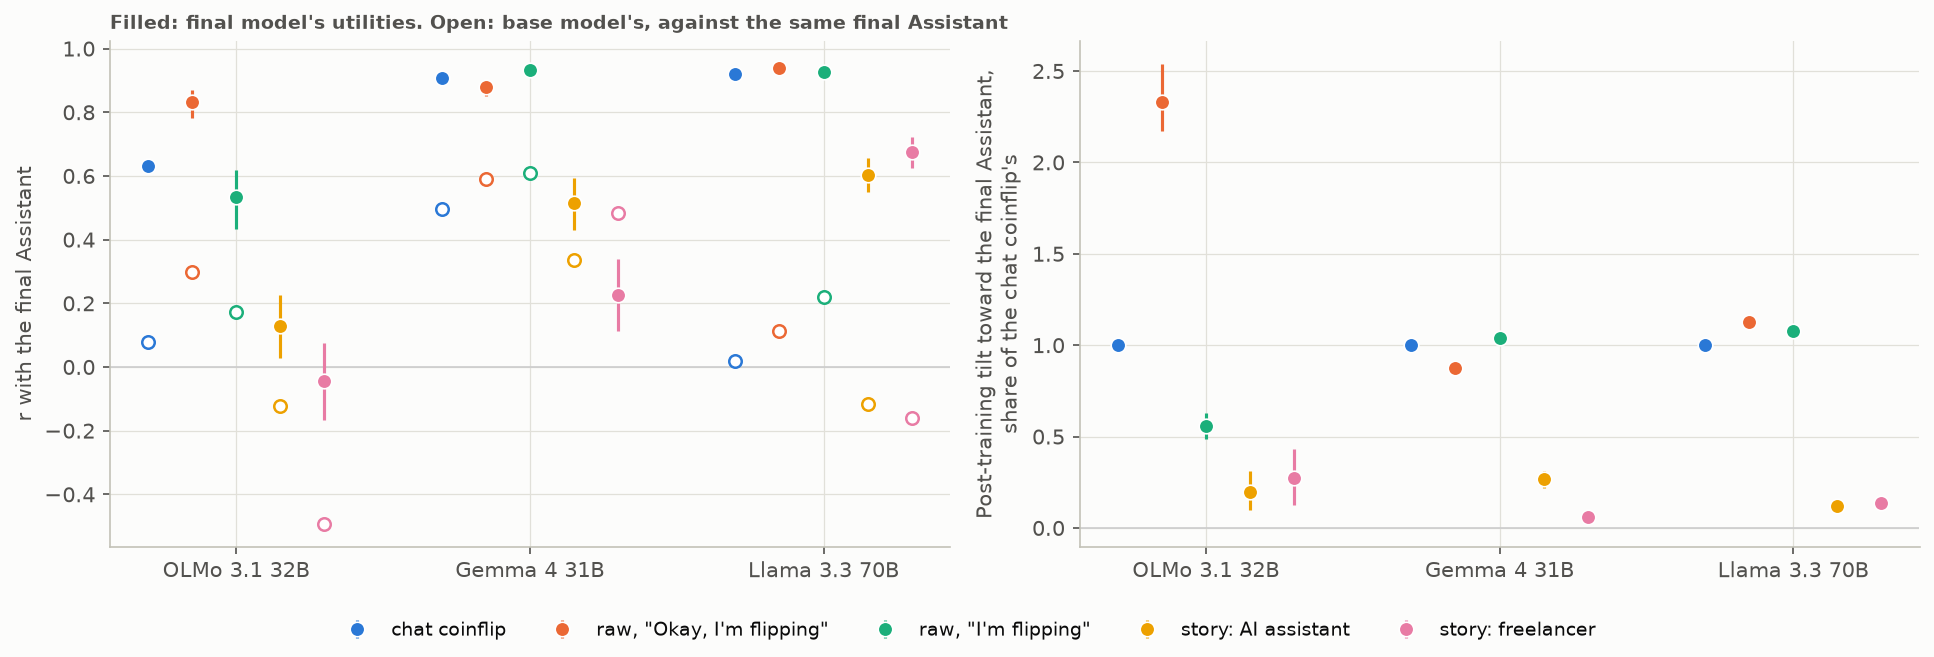
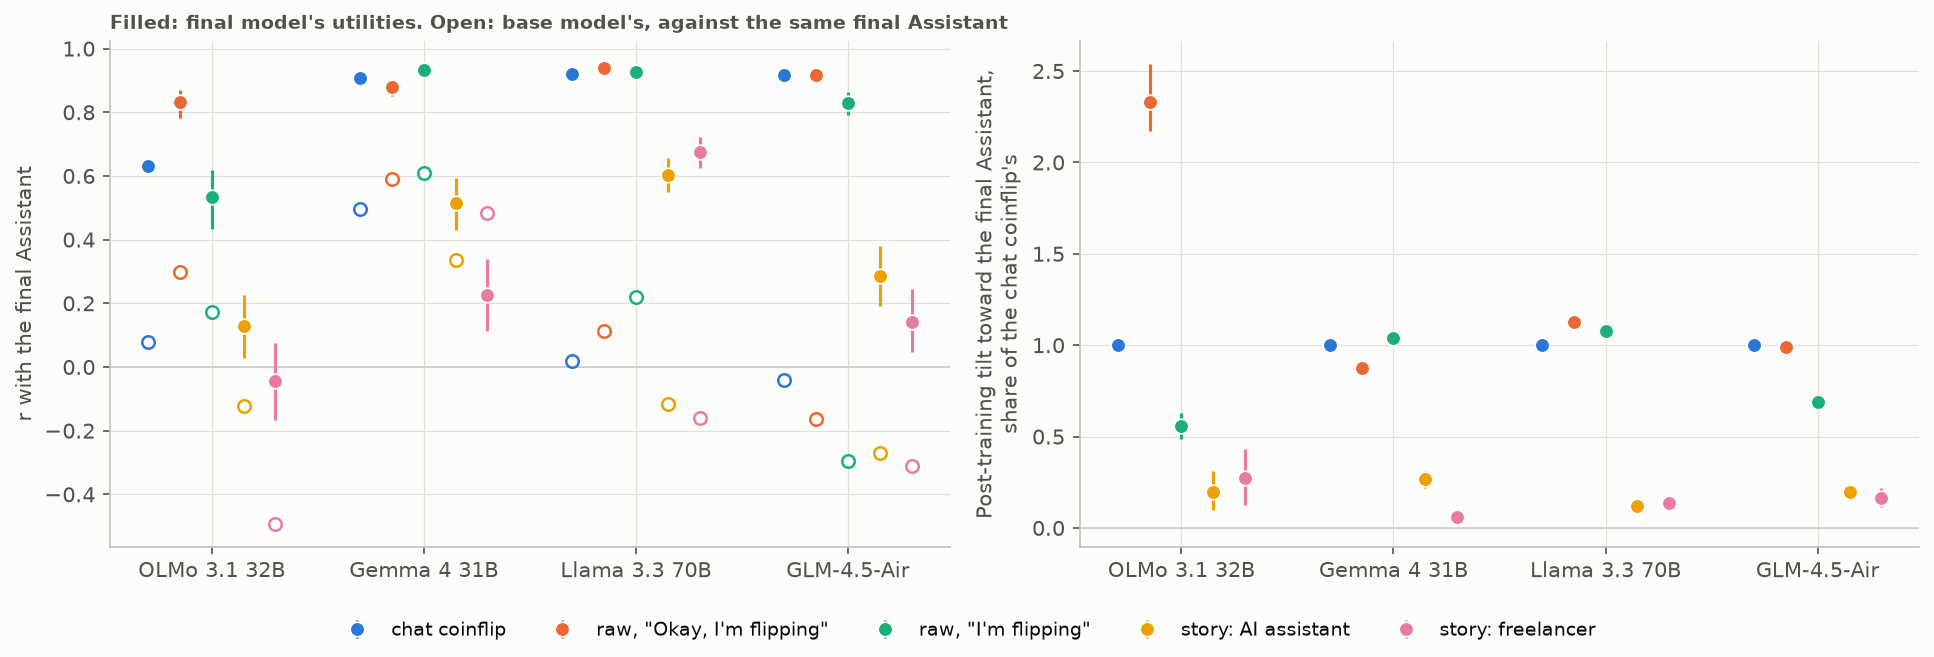
Raw text, GLM added (four families, DeepSeek dropped): GLM's first person matches its chat coinflip (r 0.92, retention 0.99), its stories keep 17-20% with no ranking within a task source

diff --git a/raw_text.py b/raw_text.py
@@ -54,7 +54,8 @@ FAMILIES = {
     "gemma4-31b": ("google/gemma-4-31B-it", "jrl62npf"),
     "llama-70b": ("unsloth/Llama-3.3-70B-Instruct", "tvlqj8a0"),
     "glm-4.5-air": ("zai-org/GLM-4.5-Air", "i5vejs3b"),
-    "deepseek-v4-flash": ("deepseek-ai/DeepSeek-V4-Flash", "lszrxqyq"),
+    # DeepSeek V4 Flash ("deepseek-ai/DeepSeek-V4-Flash", sweep run "lszrxqyq") was planned but dropped before running:
+    # no 4x H200 on Secure Cloud. Its configs stay in configs/raw_text/.
 }
 RAW = ("raw_okay", "raw_no_okay", "raw_story_ai", "raw_story_person")
 LABEL = {"coinflip": "chat coinflip", "raw_okay": 'raw, "Okay, I\'m flipping"', "raw_no_okay": 'raw, "I\'m flipping"',

diff --git a/README.md b/README.md
@@ -1702,25 +1702,28 @@ The sweep's chat coinflip on the same models, computed before writing this:
   r = 1.0000 in the openers run).
 - One phrasing per condition, bf16. CIs cover task sampling only.
 
-### Results so far (2026-11-03): OLMo, Gemma, Llama
+### Results (2026-11-03, GLM 2026-11-04): OLMo, Gemma, Llama, GLM
 
-GLM and DeepSeek haven't run: no 2x or 4x H200 (or any SXM multi-GPU node) has been in stock on Secure Cloud since launch. They
-will be added when they run; until then predictions about "N of 5 families" are scored on three.
+**DeepSeek was dropped before running** (Hal, 2026-11-03): no 4x H200 or other multi-GPU node was in stock on Secure Cloud during
+the run, and four families were judged enough. Predictions about "N of 5 families" are scored on four, below.
 
 Runs (base, final), group `raw_text`: OLMo `v9c0tvdx`, `d06n8yn0` (one A100, both stages in turn, $5.25); Gemma `vkvgtqof`, `arvkll25`
-(one H200, in turn, $7.15); Llama `xk5qk6ix`, `igq2vvpy` (one H200 each, $13.97). $26.37 in all. Changes from the plan, none touching
-the data: stock was short, so OLMo and Gemma ran both stages on one pod. Llama's final pod hit a repeatable Hugging Face xet download
-error and finished its download over plain HTTP (`HF_HUB_DISABLE_XET=1`). Two Llama final attempts and one killed job left W&B runs
-with no results (`g0a4a0hj`, `zhl5mukp`, `nemtbw0c`), which `raw_text.py` skips. Full printout: `outputs/raw_text/analysis_printout.txt`
-(not in git); tables `outputs/raw_text/raw_text.csv`, `contrasts.csv`.
+(one H200, in turn, $7.15); Llama `xk5qk6ix`, `igq2vvpy` (one H200 each, $13.97); GLM `f18njpo2`, `67tfxkbu` (one 2x H200 in EUR-IS-5,
+in turn, $15.33). $41.70 in all. Changes from the plan, none touching the data: stock was short, so OLMo, Gemma and GLM ran both stages
+on one pod. GLM ran in EUR-IS-5, as no 2x H200 was free in the US/CA list (setup and downloads were fast there). Llama's final pod hit a
+repeatable Hugging Face xet download error and finished its download over plain HTTP (`HF_HUB_DISABLE_XET=1`). Two Llama final attempts
+and one killed job left W&B runs with no results (`g0a4a0hj`, `zhl5mukp`, `nemtbw0c`), which `raw_text.py` skips. Full printout:
+`outputs/raw_text/analysis_printout.txt` (not in git); tables `outputs/raw_text/raw_text.csv`, `contrasts.csv`.
 
-**Every cell is readable** (median outcome mass 0.79-1.00) and reliable (split-half 0.978-0.999).
+**Every cell is readable** (median outcome mass 0.47-1.00; GLM's first-person cells are the lowest) and reliable (split-half
+0.978-0.999).
 
 **Bottom line: in the first person, the raw text carries the chat Assistant's preferences as fully as the chat coinflip does; as a
 story, it mostly doesn't, but not in the same way across families.** The stories keep only 6-27% of the chat coinflip's
-post-training tilt toward the Assistant in every family. What's left differs. Llama's stories keep the Assistant's ranking at about an eighth of the scale (r 0.60-0.67,
-from about -0.15 at base). Gemma's AI-assistant story keeps about a quarter of it, without the harm avoidance, while its freelancer
-story keeps almost nothing. OLMo's stories track task length, not the Assistant.
+post-training tilt toward the Assistant in every family. What's left differs. Llama's stories keep the Assistant's ranking at about an
+eighth of the scale (r 0.60-0.67, from about -0.15 at base), within task sources too. Gemma's AI-assistant story keeps about a quarter
+of it, without the harm avoidance, while its freelancer story keeps almost nothing. GLM's stories keep a faint between-source
+ordering and nothing within a source. OLMo's stories track task length, not the Assistant.
 
 ![r and retention](figures/raw_text_r.png)
 
@@ -1743,42 +1746,53 @@ story keeps almost nothing. OLMo's stories track task length, not the Assistant.
 | | raw, no "Okay, " | tracks | 0.93 [0.91, 0.94] | 0.22 | 0.92 | 1.08 [1.05, 1.11] | 0.91 | 0.74 | 2.37 | 1.24 |
 | | story: AI assistant | absent | 0.60 [0.55, 0.66] | -0.12 | 0.64 | 0.12 [0.11, 0.13] | 0.68 | 0.46 | 0.13 | 0.20 |
 | | story: freelancer | absent | 0.67 [0.63, 0.72] | -0.16 | 0.68 | 0.13 [0.12, 0.15] | 0.71 | 0.48 | 0.17 | 0.20 |
+| GLM-4.5-Air | chat coinflip (sweep) | | 0.92 | -0.04 | 0.89 | 1 | 0.84 | 0.78 | 0.73 | 0.37 |
+| | raw, "Okay, " | tracks | 0.92 [0.90, 0.93] | -0.16 | 0.90 | 0.99 [0.96, 1.02] | 0.84 | 0.78 | 0.70 | 0.36 |
+| | raw, no "Okay, " | tracks | 0.83 [0.79, 0.86] | -0.29 | 0.81 | 0.69 [0.64, 0.73] | 0.70 | 0.60 | 0.46 | 0.25 |
+| | story: AI assistant | absent | 0.29 [0.19, 0.38] | -0.27 | 0.43 | 0.20 [0.15, 0.24] | 0.35 | -0.04 | 0.06 | 0.15 |
+| | story: freelancer | absent | 0.14 [0.05, 0.25] | -0.31 | 0.29 | 0.17 [0.11, 0.22] | 0.09 | -0.08 | 0.08 | 0.16 |
 
 \* By the letter of the call (retention 0.27, r shift 0.20, both CIs above 0), but the final model's utilities don't correlate with
-the Assistant at all: post-training removed a base anti-correlation (-0.49) rather than adding an Assistant-aligned one. See finding 4.
+the Assistant at all: post-training removed a base anti-correlation (-0.49) rather than adding an Assistant-aligned one. See finding 5.
 
 Paired contrasts (95% CI): each story minus `raw_no_okay`, in r(A_f, X_f): OLMo -0.41 / -0.58, Gemma -0.42 / -0.71, Llama -0.32 /
--0.25 (AI / freelancer), all CIs below 0, and likewise in gain. AI-assistant minus freelancer story: OLMo r +0.17 [+0.11, +0.25] (gain
--0.02 [-0.04, 0.00]), Gemma r +0.29 [+0.20, +0.38] (gain +0.62 [+0.51, +0.73]), Llama r -0.07 [-0.10, -0.04] (gain -0.015 [-0.023,
--0.006]). `raw_no_okay` minus `raw_okay` in gain: OLMo -0.42 [-0.50, -0.34], Gemma +0.49 [+0.40, +0.58], Llama -0.06 [-0.08, -0.03].
+-0.25, GLM -0.54 / -0.69 (AI / freelancer), all CIs below 0, and likewise in gain. AI-assistant minus freelancer story: OLMo r +0.17
+[+0.11, +0.25] (gain -0.02 [-0.04, 0.00]), Gemma r +0.29 [+0.20, +0.38] (gain +0.62 [+0.51, +0.73]), Llama r -0.07 [-0.10, -0.04]
+(gain -0.015 [-0.023, -0.006]), GLM r +0.15 [+0.08, +0.22] (gain +0.01 [-0.01, +0.03]). `raw_no_okay` minus `raw_okay` in gain: OLMo
+-0.42 [-0.50, -0.34], Gemma +0.49 [+0.40, +0.58], Llama -0.06 [-0.08, -0.03], GLM -0.10 [-0.12, -0.09].
 
-**Predictions, scored on three families:**
-1. **Confirmed.** `raw_okay` tracks in all three. r(A_f, X_f) is within 0.1 of the chat coinflip's or above it (OLMo +0.20, Gemma
-   -0.03, Llama +0.02), and OLMo's retention is 2.33 [2.17, 2.54], above 1.
-2. **Confirmed.** `raw_no_okay` tracks in all three, and OLMo's gain falls without "Okay, " (-0.42, CI below 0).
-3. **Open, 2 of 3 per story so far.** `raw_story_ai` is absent in OLMo and Llama but tracks in Gemma. `raw_story_person` is absent in
-   Gemma and Llama, and "tracks" in OLMo only by the footnoted artifact. Llama, the likeliest exception, is absent in both.
-4. **Confirmed so far (6 of 6 cells).** Every story's gain is below `raw_no_okay`'s.
-5. **Wrong (0 of 3).** The AI-assistant and freelancer stories differ in every family: by r in OLMo (+0.17) and Gemma (+0.29), and by
-   a small but non-zero gain in Llama.
+**Predictions, scored on four families:**
+1. **Confirmed.** `raw_okay` tracks in all four. r(A_f, X_f) is within 0.1 of the chat coinflip's or above it (OLMo +0.20, Gemma
+   -0.03, Llama +0.02, GLM -0.00), and OLMo's retention is 2.33 [2.17, 2.54], above 1.
+2. **Confirmed.** `raw_no_okay` tracks in all four, and OLMo's gain falls without "Okay, " (-0.42, CI below 0).
+3. **Not confirmed: 3 of 4 per story.** `raw_story_ai` is absent in OLMo, Llama and GLM but tracks in Gemma. `raw_story_person` is
+   absent in Gemma, Llama and GLM, and "tracks" in OLMo, though only by the footnoted artifact. The threshold was 4 of 5. With
+   DeepSeek dropped, it would have needed DeepSeek absent in both. Llama, the family I expected to be the exception, is absent in both.
+4. **Confirmed (8 of 8 cells).** Every story's gain is below `raw_no_okay`'s.
+5. **Wrong (0 of 4).** The AI-assistant and freelancer stories differ in every family: by r in OLMo (+0.17), Gemma (+0.29) and GLM
+   (+0.15), and by a small but non-zero gain in Llama.
 6. **Wrong.** Gemma's `raw_story_ai` gain is positive (+0.81 [+0.65, +0.95] nats per SD), not negative.
-7. **Confirmed so far** for readability; the GLM half can't be scored yet.
+7. **Confirmed.** Every cell is readable, and GLM's final model puts 0.60 of its mass on the outcomes in `raw_okay`, against 0.45 in chat.
 
-### Findings (three families)
+### Findings
 
-1. **First person, the raw text keeps the effect across the task range.** With no template, Llama's and Gemma's coinflip track their
-   chat Assistant at r 0.88-0.94 and 88-113% of the chat coinflip's tilt, not only on harm (non-harmful r 0.87-0.91, within origin
-   0.71-0.79). OLMo's, with "Okay, ", is *more* Assistant-aligned than its chat coinflip (r 0.83 vs 0.63, 2.3x the tilt), as its plain-text
-   effect doubled on `../coinflip`'s pairs. Without "Okay, " it keeps 56%. Gemma and Llama don't need the opener.
+1. **First person, the raw text keeps the effect across the task range.** With no template, Llama's, Gemma's and GLM's coinflip track
+   their chat Assistant at r 0.88-0.94 and 88-113% of the chat coinflip's tilt, not only on harm (non-harmful r 0.84-0.91, within
+   origin 0.71-0.79). GLM's is indistinguishable from its chat coinflip (r -0.00 [-0.01, +0.01] apart). OLMo's, with "Okay, ", is
+   *more* Assistant-aligned than its chat coinflip (r 0.83 vs 0.63, 2.3x the tilt), as its plain-text effect doubled on `../coinflip`'s
+   pairs. Without "Okay, " OLMo keeps 56% and GLM 69%; Gemma and Llama don't need the opener.
 2. **Stories cut the scale everywhere, but Llama keeps the ranking.** Llama's story utilities correlate 0.60 and 0.67 with the
    Assistant, from -0.12 and -0.16 at base (r shift 0.64-0.68, non-harmful 0.68-0.71, within origin 0.46-0.48), at a sixth of the
    first-person SD (0.20 vs 1.24). So the call is "absent" by scale, but the story still reads out the Assistant's preferences, faintly
    and whoever does the task. This matches `../coinflip`, where Llama's stories kept a small effect in 24 of 25 pairs (7%).
 3. **Gemma's AI-assistant story tracks taste, not harm.** It keeps 27% of the tilt and r 0.52 (non-harmful 0.60) where the freelancer
-   story keeps 6%. That makes Gemma the only family where it matters that the story is about an AI. But harmful tasks aren't pushed
+   story keeps 6%. That makes Gemma the clearest family where it matters that the story is about an AI. But harmful tasks aren't pushed
    down: the gap is 0.80 nats vs 5.86 in the first person, and stress-test tasks the Assistant strongly avoids sit at or above zero
    (`figures/raw_text_scatter.png`). That fits `../coinflip`, where Gemma's AI story favored the *harmful* outcome on extreme harm.
-4. **OLMo's stories track length, not the Assistant.** Final r with the Assistant is 0.13 and -0.04, and 0.02 and -0.16 with log task
+4. **GLM's stories keep only a faint ordering of task sources.** r with the Assistant is 0.29 and 0.14 (up from -0.27 and -0.31 at
+   base), but -0.04 and -0.08 within origin. The final story utilities are within ±0.16 nats of zero in every origin's mean. The
+   AI-assistant story is a little more Assistant-like than the freelancer one in r (+0.15), not in gain.
+5. **OLMo's stories track length, not the Assistant.** Final r with the Assistant is 0.13 and -0.04, and 0.02 and -0.16 with log task
    length held fixed (exploratory), while the final story utilities correlate 0.53 and 0.46 with length. The freelancer story's
    "tracks" call comes from the base model, whose utilities anti-correlate with the final Assistant (-0.49, -0.48 with length held
    fixed), and from post-training removing that. The call's rule didn't anticipate a strongly negative base; read this cell as absent.
@@ -1787,9 +1801,10 @@ Paired contrasts (95% CI): each story minus `raw_no_okay`, in r(A_f, X_f): OLMo 
 ### Caveats (from the results)
 
 - The "retention" call is about scale. It doesn't say whether the direction survives, which is what separates Llama (ranking kept,
-  scale small) from OLMo (neither). Read r(A_f, X_f), r(A_f, X_b) and retention together.
+  scale small) from OLMo and GLM (no ranking within a source). Read r(A_f, X_f), r(A_f, X_b), r within origin and retention together.
 - Gemma's final model has a large slot bias in every raw condition (P(" tails") 0.59-0.76 on average; -1.6 to -2.6 log-odds). Scoring
   both orders cancels it to first order.
+- GLM's first-person cells have the lowest outcome mass (median 0.47-0.63), like its chat coinflip (0.45).
 
 ## When the user does the task
 
